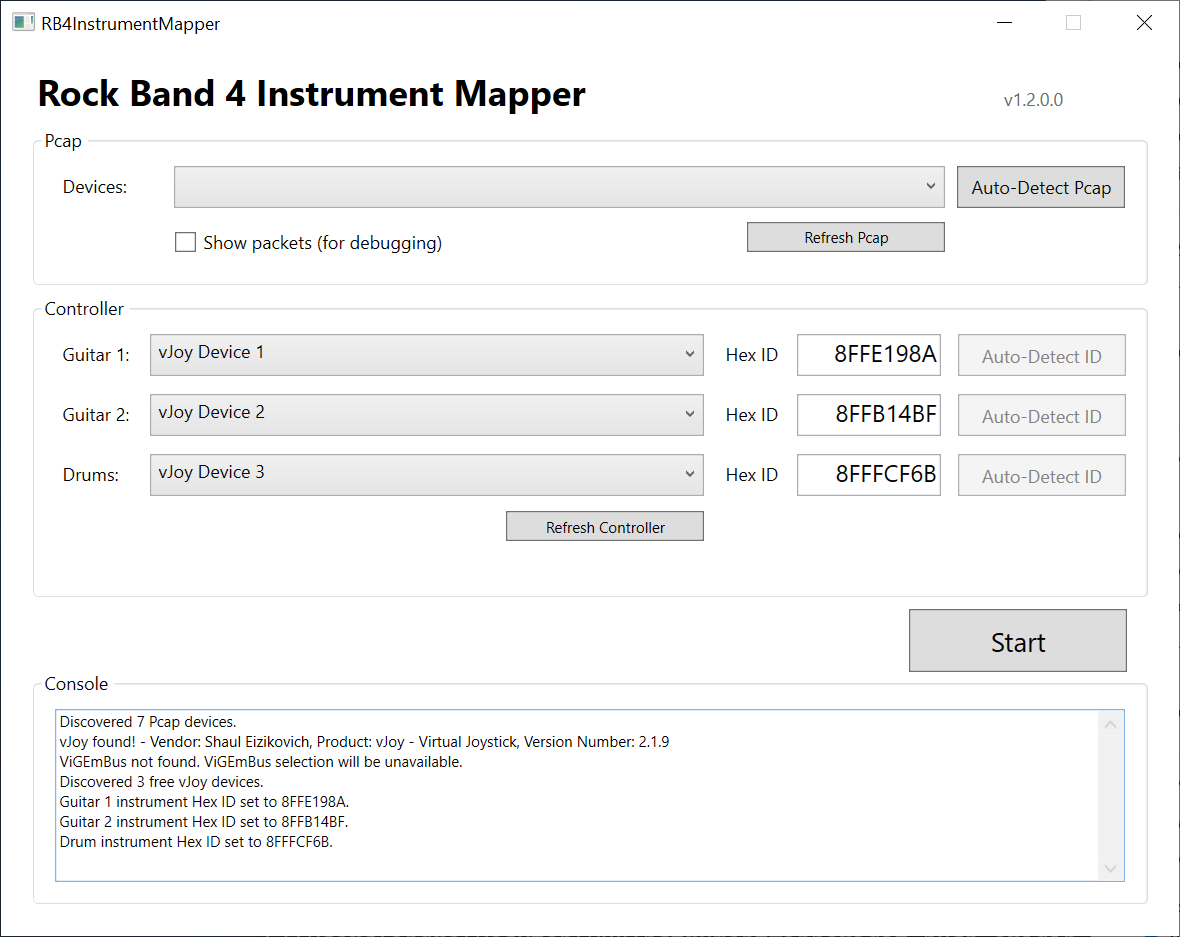
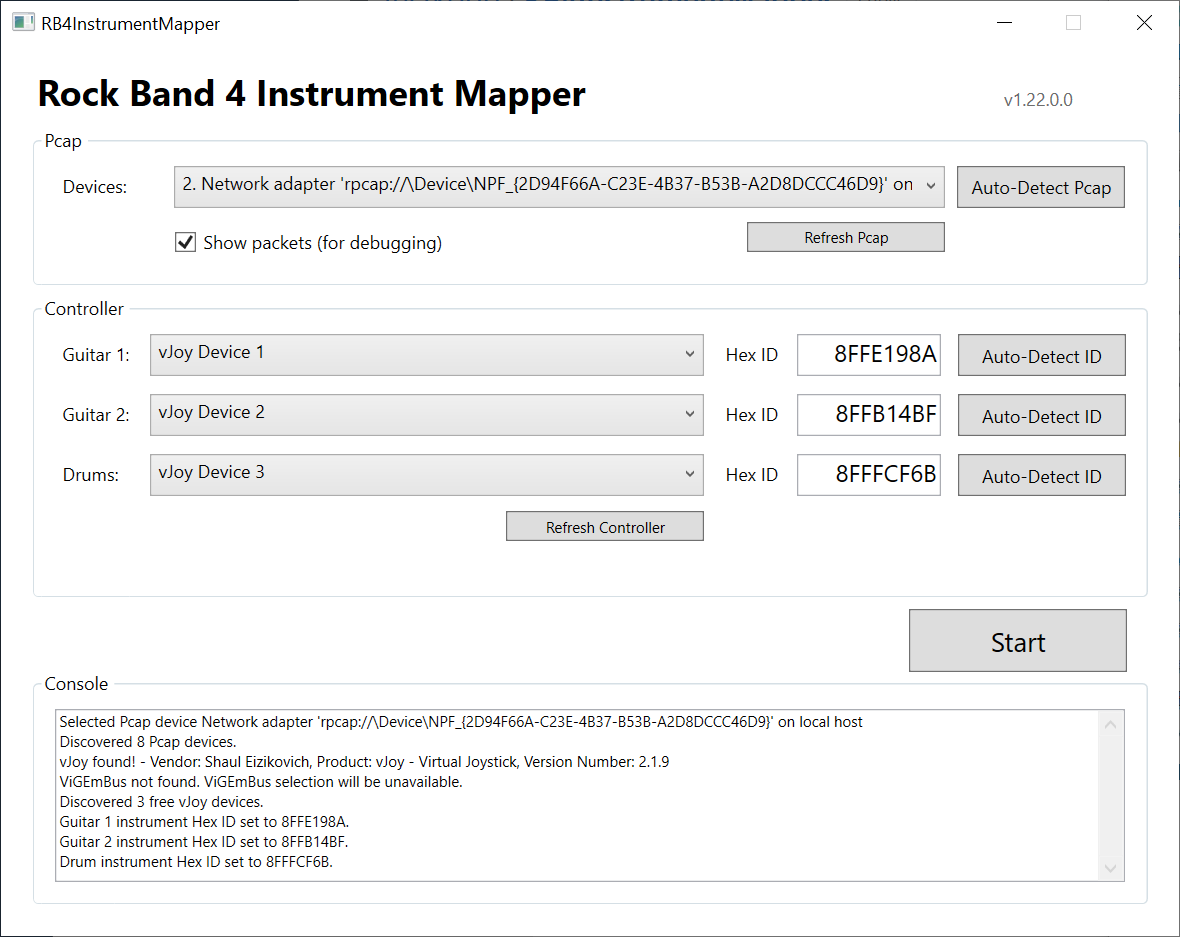
Additional version rev to make installer compatible with original v1.1 MSI

diff --git a/MainWindow/MainWindow.xaml b/MainWindow/MainWindow.xaml
@@ -46,6 +46,6 @@
                 <TextBox Name="messageConsole" Margin="0,0,0,0" TextWrapping="Wrap" AcceptsReturn="True" VerticalScrollBarVisibility="Visible" IsReadOnly="True" FontSize="10"/>
             </Grid>
         </GroupBox>
-        <Label x:Name="guitar1IdLabel_Copy" Content="v1.2.0.0" HorizontalAlignment="Right" Height="28" Margin="0,13,9.667,0" VerticalAlignment="Top" Width="102" IsEnabled="False"/>
+        <Label x:Name="guitar1IdLabel_Copy" Content="v1.22.0.0" HorizontalAlignment="Right" Height="28" Margin="0,13,9.667,0" VerticalAlignment="Top" Width="102" IsEnabled="False"/>
     </Grid>
 </Window>
